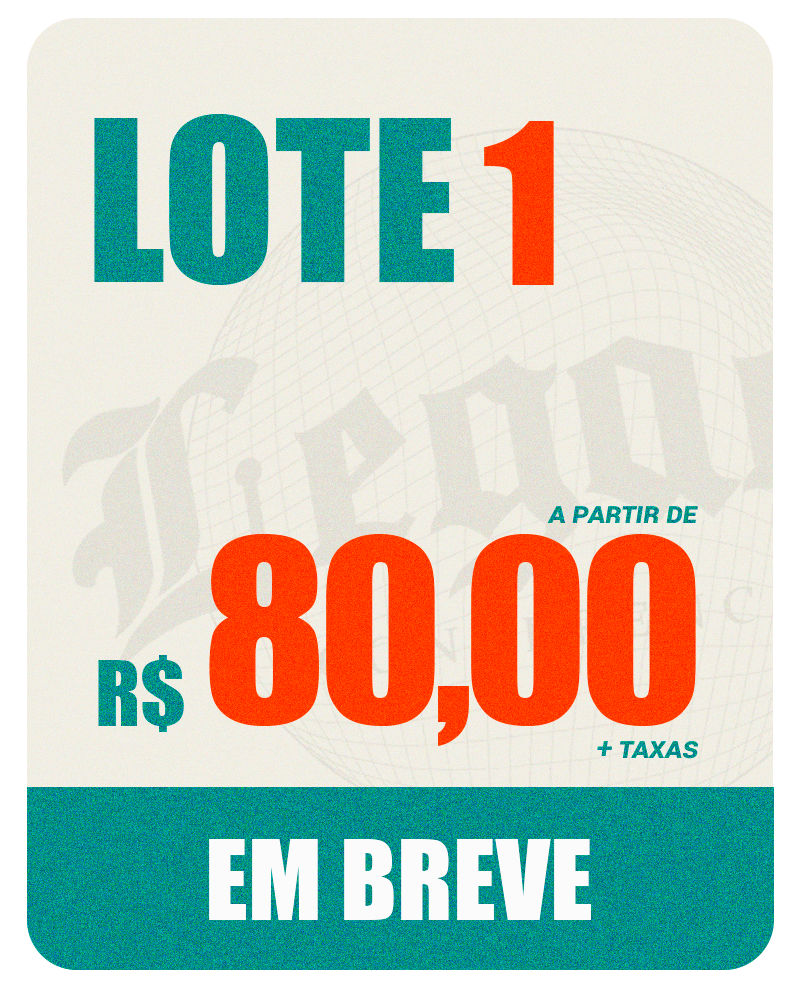
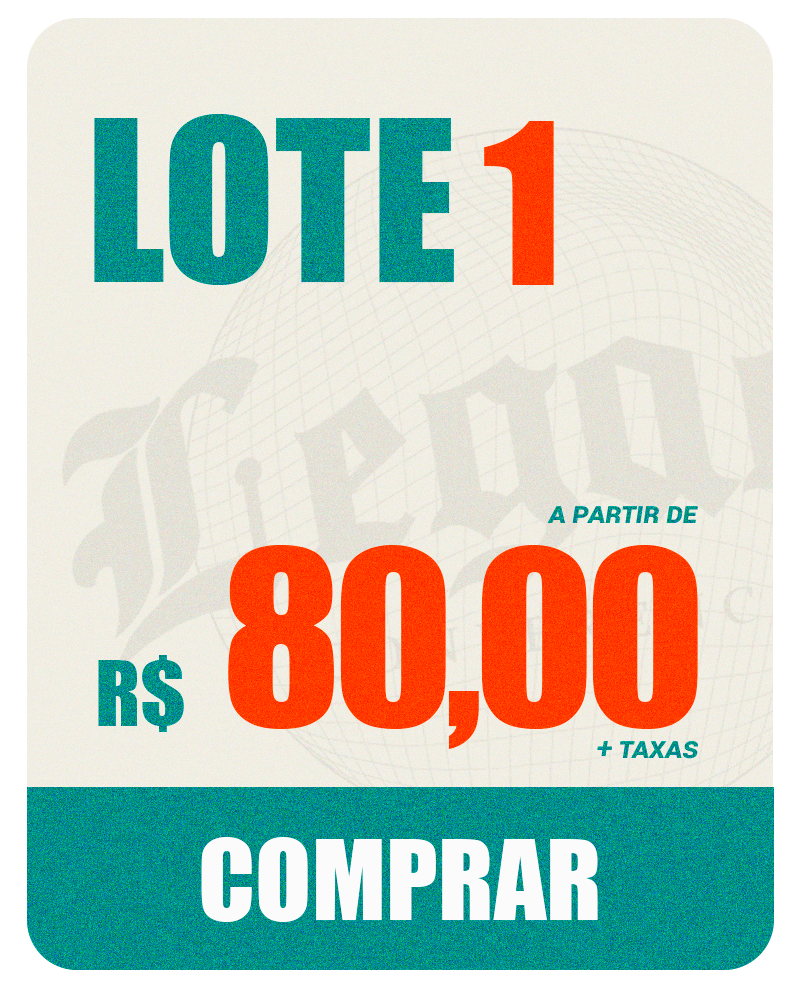
Update lote

Changed region(s): [[0.25, 0.5162, 0.875, 0.7591], [0.25, 0.8502, 0.75, 0.9413]]

diff --git a/src/pages/conference/index.jsx b/src/pages/conference/index.jsx
@@ -47,15 +47,15 @@ const Conference = () => {
       titulo: "Pré-Venda",
       valor: "65,00",
       isActive: true,
-      image: "/images/conference/tickets/pre-venda.png",
-      url: REDIRECT_URL,
+      image: "/images/conference/tickets/pre-venda-esgotado.png",
     },
     {
       status: "Comprar",
       titulo: "Lote 1",
       valor: "",
-      isActive: false,
+      isActive: true,
       image: "/images/conference/tickets/lote1.png",
+      url: REDIRECT_URL,
     },
     {
       status: "Comprar",
@@ -79,31 +79,31 @@ const Conference = () => {
 
         <div className={styles.caroussel}>
           <div className={styles.track}>
-            <span>PRÉ-VENDA LIBERADA</span>
+            <span>LOTE 1 LIBERADO</span>
             <span>FAÇA SUA INSCRIÇÃO</span>
-            <span>PRÉ-VENDA LIBERADA</span>
+            <span>LOTE 1 LIBERADO</span>
             <span>FAÇA SUA INSCRIÇÃO</span>
-            <span>PRÉ-VENDA LIBERADA</span>
+            <span>LOTE 1 LIBERADO</span>
             <span>FAÇA SUA INSCRIÇÃO</span>
-            <span>PRÉ-VENDA LIBERADA</span>
+            <span>LOTE 1 LIBERADO</span>
             <span>FAÇA SUA INSCRIÇÃO</span>
-            <span>PRÉ-VENDA LIBERADA</span>
+            <span>LOTE 1 LIBERADO</span>
             <span>FAÇA SUA INSCRIÇÃO</span>
-            <span>PRÉ-VENDA LIBERADA</span>
+            <span>LOTE 1 LIBERADO</span>
             <span>FAÇA SUA INSCRIÇÃO</span>
-            <span>PRÉ-VENDA LIBERADA</span>
+            <span>LOTE 1 LIBERADO</span>
             <span>FAÇA SUA INSCRIÇÃO</span>
-            <span>PRÉ-VENDA LIBERADA</span>
+            <span>LOTE 1 LIBERADO</span>
             <span>FAÇA SUA INSCRIÇÃO</span>
-            <span>PRÉ-VENDA LIBERADA</span>
+            <span>LOTE 1 LIBERADO</span>
             <span>FAÇA SUA INSCRIÇÃO</span>
-            <span>PRÉ-VENDA LIBERADA</span>
+            <span>LOTE 1 LIBERADO</span>
             <span>FAÇA SUA INSCRIÇÃO</span>
-            <span>PRÉ-VENDA LIBERADA</span>
+            <span>LOTE 1 LIBERADO</span>
             <span>FAÇA SUA INSCRIÇÃO</span>
-            <span>PRÉ-VENDA LIBERADA</span>
+            <span>LOTE 1 LIBERADO</span>
             <span>FAÇA SUA INSCRIÇÃO</span>
-            <span>PRÉ-VENDA LIBERADA</span>
+            <span>LOTE 1 LIBERADO</span>
             <span>FAÇA SUA INSCRIÇÃO</span>
           </div>
         </div>

diff --git a/src/components/conference/Timeline/index.jsx b/src/components/conference/Timeline/index.jsx
@@ -11,10 +11,10 @@ const Timeline = () => {
         <p className={styles.text}>Pré-venda liberada</p>
       </div>
 
-      <div className={`${styles.step}`}>
+      <div className={`${styles.step} ${styles.done}`}>
         <p className={styles.date}></p>
         <div className={styles.dot}></div>
-        <p className={styles.text}>1º lote <br /> Divulgação do tema</p>
+        <p className={styles.text}>1º lote </p>
       </div>
 
       <div className={`${styles.step}`}>

diff --git a/src/components/conference/Timeline/styles.module.css b/src/components/conference/Timeline/styles.module.css
@@ -26,7 +26,7 @@
   position: absolute;
   height: 100%;
   background-color: #ff3c01;
-  width: 10%; /* Progresso (ajuste manual) */
+  width: 30%; /* Progresso (ajuste manual) */
   z-index: 1;
   border-radius: 10px;
   transition: width 0.8s ease-in-out;
@@ -92,7 +92,7 @@
 
   .line::before {
     width: 100%;
-    height: 10%; /* Progresso na vertical */
+    height: 33%; /* Progresso na vertical */
   }
 
   .step {
